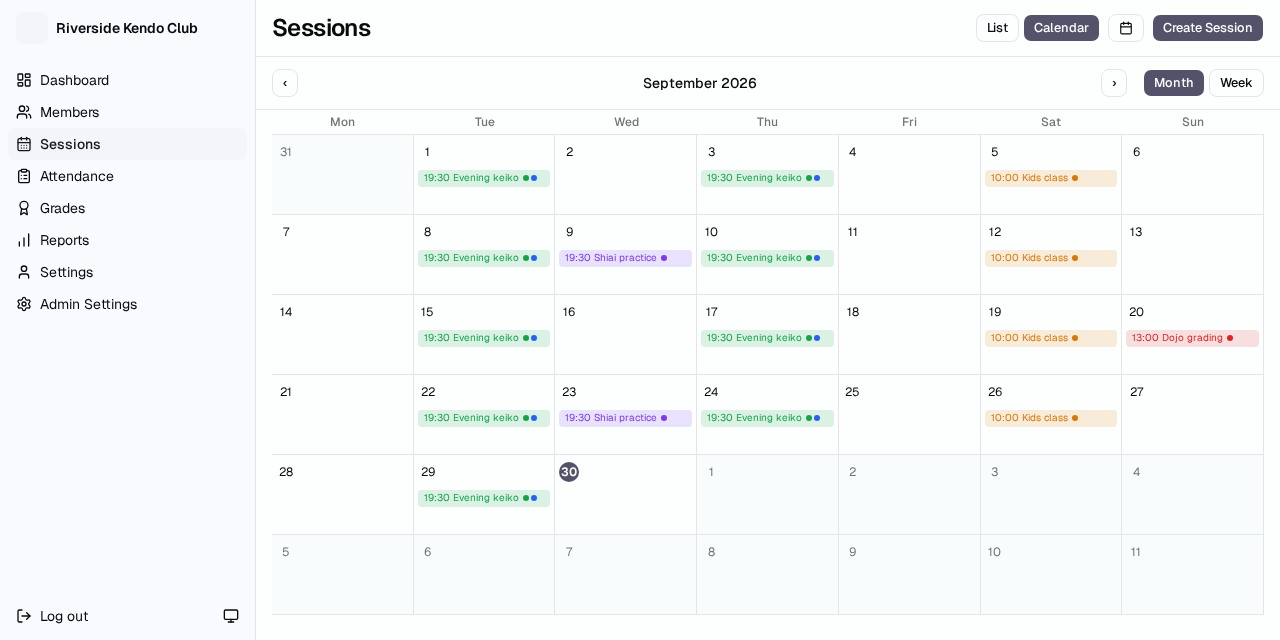
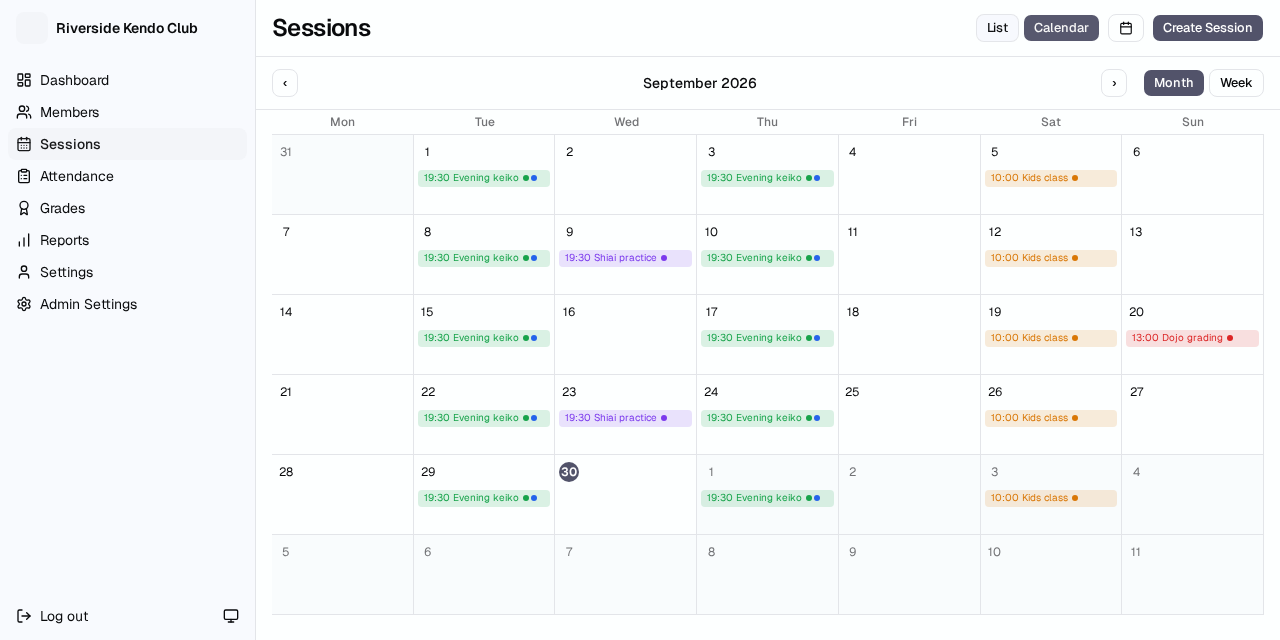
docs: mobile light/dark screenshots alongside the desktop calendar
`make screenshots` now also shoots /sessions at 390x844 (2x scale) in
both themes. Below md there is no List/Calendar toggle, so mobile shows
the upcoming-session cards; the seed therefore runs into next month too,
or a run late in the month would photograph an empty list.

Refs #416

Changed region(s): [[0.75, 0.75, 0.875, 0.8125], [0.5312, 0.75, 0.6562, 0.8125]]

diff --git a/backend/tests/docs_screenshots.py b/backend/tests/docs_screenshots.py
@@ -15,9 +15,15 @@ import datetime
 from pathlib import Path
 
 import requests
-from playwright.sync_api import Page, expect
+from playwright.sync_api import Browser, expect
 
-from tests.e2e_support import API_URL, BASE_URL, authenticate
+from tests.e2e_support import (
+    API_URL,
+    BASE_URL,
+    complete_onboarding,
+    make_token,
+    set_cookie,
+)
 
 # `make screenshots` bind-mounts docs/assets here.
 OUT = Path("/screenshots")
@@ -69,35 +75,47 @@ def _seed(token: str) -> None:
             },
         )
 
-    today = datetime.date.today()
-    days_in_month = calendar.monthrange(today.year, today.month)[1]
-    sundays = 0
-    for n in range(1, days_in_month + 1):
-        day = today.replace(day=n)
-        weekday = day.weekday()
+    # This month and next: the month grid shows this one, and the mobile list
+    # only shows what is still upcoming.
+    first = datetime.date.today().replace(day=1)
+    for i in range(62):
+        day = first + datetime.timedelta(days=i)
+        weekday, week = day.weekday(), (day.day - 1) // 7
         if weekday in (calendar.TUESDAY, calendar.THURSDAY):
             session(day, "Evening keiko", "19:30", 90, "Kihon", "Keiko")
-        elif weekday == calendar.WEDNESDAY and (n - 1) // 7 in (1, 3):  # 2nd and 4th
+        elif weekday == calendar.WEDNESDAY and week in (1, 3):
             session(day, "Shiai practice", "19:30", 90, "Shiai practice")
         elif weekday == calendar.SATURDAY:
             session(day, "Kids class", "10:00", 60, "Kids class")
-        elif weekday == calendar.SUNDAY:
-            sundays += 1
-            if sundays == 3:
-                session(day, "Dojo grading", "13:00", 180, "Grading")
+        elif weekday == calendar.SUNDAY and week == 2:
+            session(day, "Dojo grading", "13:00", 180, "Grading")
 
 
-def test_session_calendar_screenshots(page: Page) -> None:
+# Mobile has no List/Calendar toggle: below md the page is always the list.
+VIEWS = {
+    "": {"viewport": {"width": 1280, "height": 640}},
+    "-mobile": {"viewport": {"width": 390, "height": 844}, "device_scale_factor": 2},
+}
+
+
+def test_session_calendar_screenshots(browser: Browser) -> None:
     assert (
         OUT.is_dir()
     ), "docs/assets is not mounted at /screenshots — run `make screenshots`"
-    token = authenticate(page, "admin", first_name="Aiko", surname="Tanaka")
+    token = make_token("admin")
+    complete_onboarding(token, first_name="Aiko", surname="Tanaka")
     _seed(token)
 
-    page.set_viewport_size({"width": 1280, "height": 640})
-    for scheme in ("light", "dark"):
-        page.emulate_media(color_scheme=scheme)
-        page.goto(f"{BASE_URL}/sessions")
-        page.get_by_role("button", name="Calendar").click()
-        expect(page.get_by_role("button", name="Evening keiko").first).to_be_visible()
-        page.screenshot(path=OUT / f"session-calendar-{scheme}.png")
+    for suffix, options in VIEWS.items():
+        for scheme in ("light", "dark"):
+            context = browser.new_context(color_scheme=scheme, **options)
+            page = context.new_page()
+            set_cookie(page, token)
+            page.goto(f"{BASE_URL}/sessions")
+            if not suffix:
+                page.get_by_role("button", name="Calendar").click()
+            expect(
+                page.locator("text=Evening keiko >> visible=true").first
+            ).to_be_visible()
+            page.screenshot(path=OUT / f"session-calendar{suffix}-{scheme}.png")
+            context.close()

diff --git a/docs/contributing/make-targets.md b/docs/contributing/make-targets.md
@@ -5,7 +5,7 @@
 | `make` | List the targets (starts nothing) |
 | `make dev` | Start the hot-reload dev stack |
 | `make test` | Start the test watcher (re-runs pytest on every save) |
-| `make screenshots` | Regenerate the README / docs session-calendar screenshots (`docs/assets`, light and dark) from a made-up dojo — rerun after a UI change to the calendar |
+| `make screenshots` | Regenerate the README / docs sessions screenshots (`docs/assets`, desktop and mobile, light and dark) from a made-up dojo — rerun after a UI change to the calendar |
 | `make build` | Build the production image as `localhost/kendodojo:latest` (releases run the published image — see [ADR-0004](../adr/0004-published-images-pinned-by-major-tag.md)) |
 | `make down` | Stop the stacks this checkout starts — dev and test |
 | `make down-selfhost` | Stop the quick self-host stack — **takes the dojo offline** |

diff --git a/docs/index.md b/docs/index.md
@@ -5,6 +5,9 @@ Self-hosted web application for managing the members, sessions, and attendance o
 ![The session calendar: a month of keiko, kids classes, shiai practice and a grading, colour-coded by session type](assets/session-calendar-light.png#only-light)
 ![The session calendar: a month of keiko, kids classes, shiai practice and a grading, colour-coded by session type](assets/session-calendar-dark.png#only-dark)
 
+![The sessions page on a phone: upcoming sessions as cards, each with check-in and a shareable check-in link](assets/session-calendar-mobile-light.png#only-light){ width="300" }
+![The sessions page on a phone: upcoming sessions as cards, each with check-in and a shareable check-in link](assets/session-calendar-mobile-dark.png#only-dark){ width="300" }
+
 --8<-- "README.md:features"
 
 ## Container runtime

diff --git a/README.md b/README.md
@@ -7,6 +7,11 @@ Self-hosted web application for managing the members, sessions, and attendance o
   <img alt="The session calendar: a month of keiko, kids classes, shiai practice and a grading, colour-coded by session type" src="docs/assets/session-calendar-light.png">
 </picture>
 
+<picture>
+  <source media="(prefers-color-scheme: dark)" srcset="docs/assets/session-calendar-mobile-dark.png">
+  <img width="300" alt="The sessions page on a phone: upcoming sessions as cards, each with check-in and a shareable check-in link" src="docs/assets/session-calendar-mobile-light.png">
+</picture>
+
 <!-- --8<-- [start:features] -->
 ## Features
 
